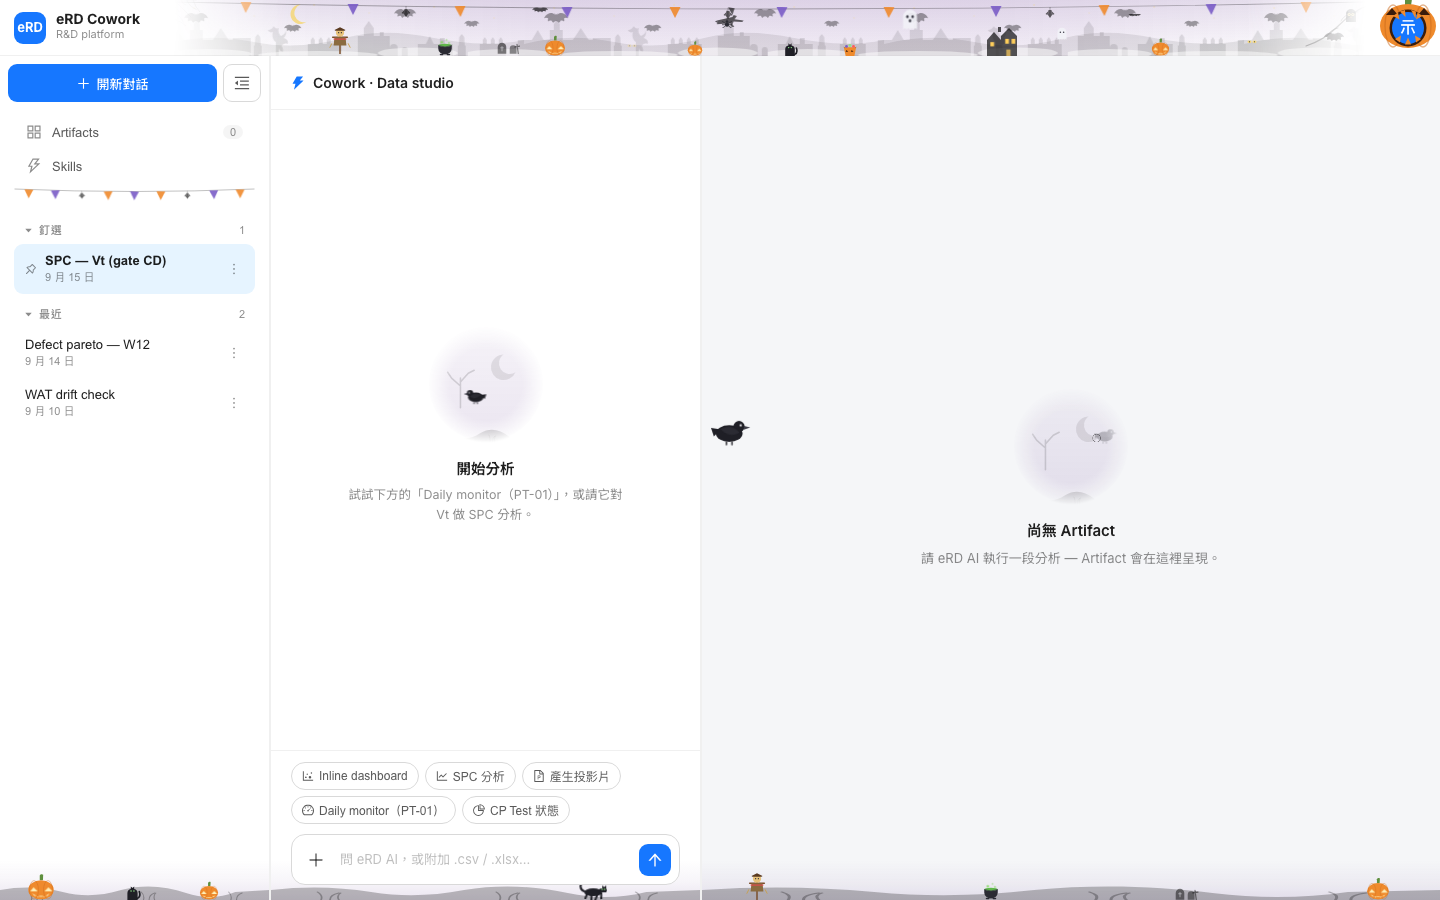
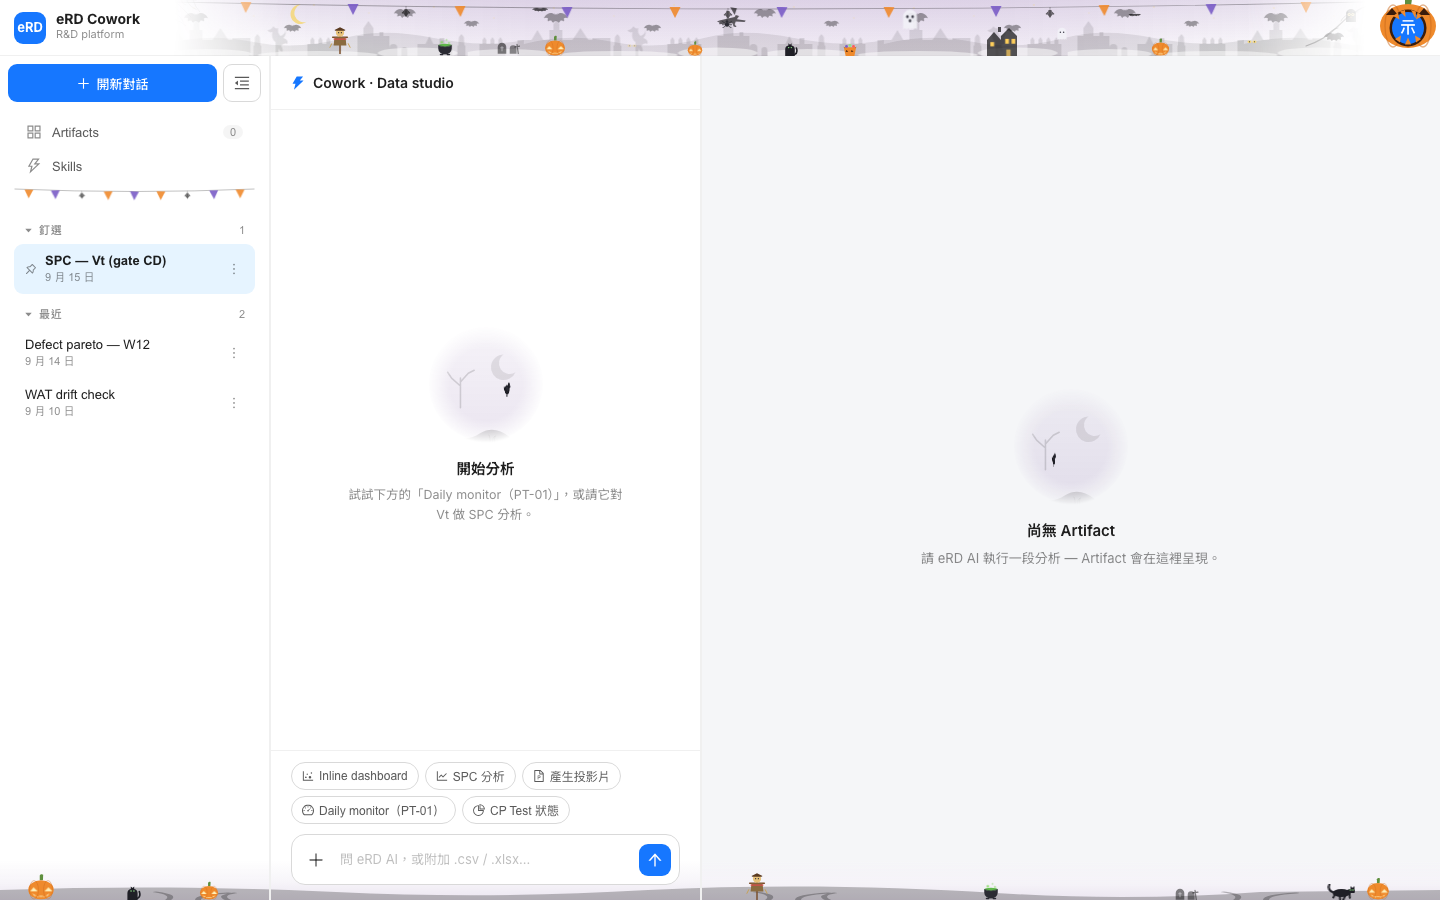
chore(shots): 第三版——地帶在邊界接起來

diff --git a/docs/festive-shots/README.md b/docs/festive-shots/README.md
@@ -1,6 +1,6 @@
 # 節慶裝飾截圖（2026-09-18 第二版，臨時 branch，看完即刪）
 
-對應 commit 60c9c12。這一版改了兩件事：對話欄的地面從 composer 後面穿過（不再斷層）；圓窗留下，畫法改成同一個世界的，四個節日各一隻生物。
+對應 commit 5188418。第三版：地帶改成一整條，三個面的邊界接得上、一樣亮（40 到 45）。這一版改了兩件事：對話欄的地面從 composer 後面穿過（不再斷層）；圓窗留下，畫法改成同一個世界的，四個節日各一隻生物。
 
 ## 整頁
 
@@ -35,3 +35,14 @@
 | 知更鳥飛過 Artifact 面板 | ![](31-robin-crossing.png) |
 | 錦鯉橫越 | ![](32-koi-crossing.png) |
 | 蟾蜍橫越 | ![](33-toad-crossing.png) |
+
+## 第三版：地帶在三個面的邊界接起來
+
+| | |
+|---|---|
+| 聖誕 | ![](40-foot-joined-christmas.png) |
+| 新年 | ![](41-foot-joined-lunarNewYear.png) |
+| 萬聖節 | ![](42-foot-joined-halloween.png) |
+| 中秋 | ![](43-foot-joined-midAutumn.png) |
+| 聖誕深色 | ![](44-foot-joined-christmas-dark.png) |
+| 收合欄 | ![](45-foot-joined-collapsed.png) |
